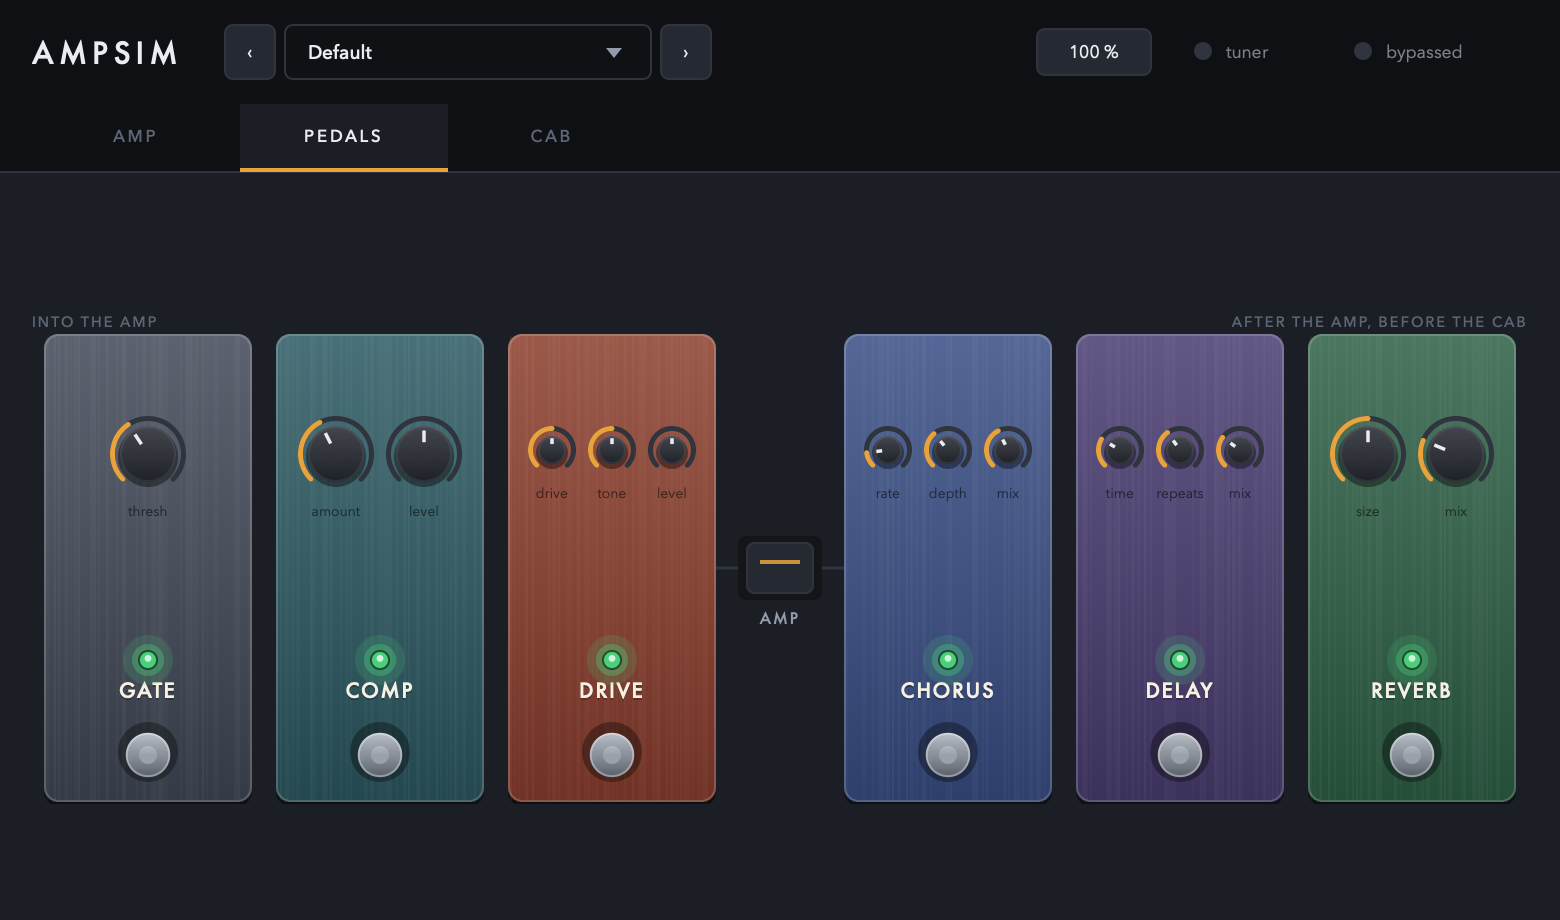
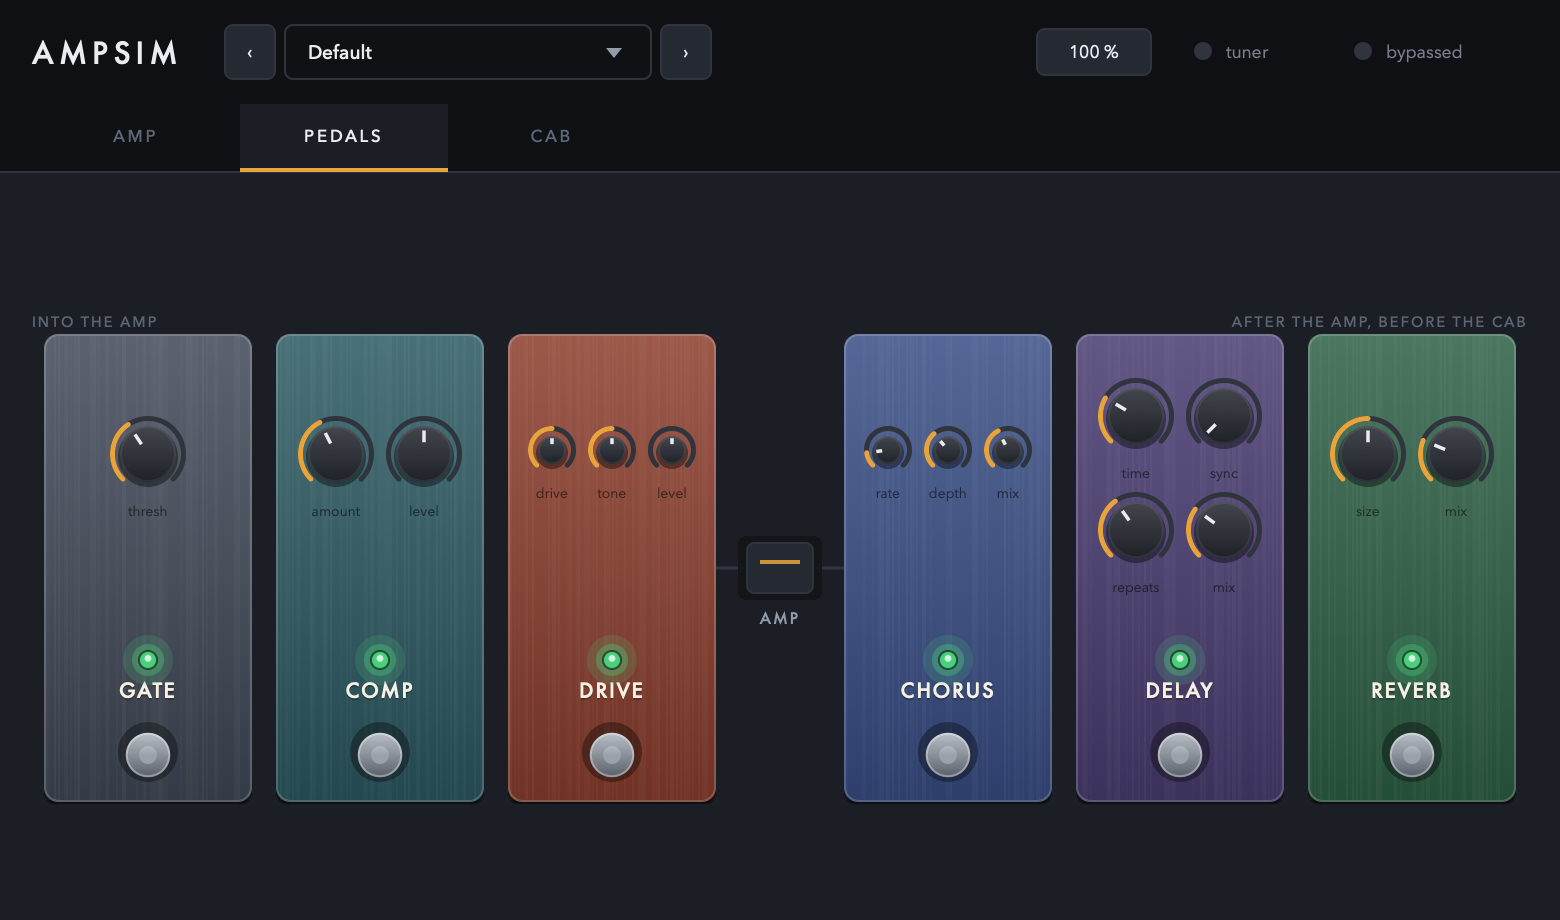
Sync the delay to the host's tempo
A fourth knob on the delay: Free, or a note length from 1/2 down to 1/16 with
the dotted and triplet ones between. Free is the first choice, so a session
saved before this existed lands on it and the delay behaves exactly as it did.

The tempo is read in the processor, not in the pedal. currentDelaySeconds()
takes the host's BPM through getPlayHead() and cuts it to the chosen length;
DelayPedal still just takes a time in seconds and knows nothing about tempo.
A host that reports none — a standalone — gets 120 BPM, because a delay that
went silent off the back of a missing number would be worse than one that
guessed.

Two things had to be pulled apart to make room. The delay line now holds two
seconds rather than 1.2, because a synced half note runs to two seconds at
60 BPM; the time knob's own range stays at 1.2, because a stored parameter is a
proportion of its range and widening it would move every saved session's delay
time. And PedalObject lays four knobs out as two rows of two rather than three
and a lonely one, which is the first pedal here to need a second row.

Both tests drive the whole processor with a fixed-tempo playhead and measure
where the repeat actually lands: a quarter at 120 BPM within a millisecond of
half a second, an eighth within a millisecond of a quarter of one, and Free
following the knob instead. The synced one fails when the conversion is taken
out.

104 tests pass in Debug and Release; auval passes.

Changed region(s): [[0.7077, 0.3957, 0.8308, 0.6087]]

diff --git a/docs/guide/index.html b/docs/guide/index.html
@@ -196,6 +196,7 @@
         <tbody>
           <tr><td>Any knob</td><td>Drag up/down or left/right</td><td>Turns it. A pedal knob shows its value in a bubble while you drag; an amp or cab knob has its value printed under it</td></tr>
           <tr><td>Any knob</td><td>Double-click</td><td>Back to its default</td></tr>
+          <tr><td>Delay's sync knob</td><td>Turn fully down</td><td>Free — the time knob decides instead of the tempo</td></tr>
           <tr><td>Any knob</td><td>Read the ring</td><td>How far it has moved from where it does nothing — the middle for a tone band, the bottom for an amount, the top for the cab's high cut</td></tr>
           <tr><td>Any knob</td><td>Right-click</td><td>Learn a MIDI controller for it, or forget the one it has</td></tr>
           <tr><td>Brass nameplate</td><td>Click</td><td>Opens a file chooser for a <code>.nam</code> capture</td></tr>
@@ -368,7 +369,8 @@
         { x: 24.4, y: 50.7, title: "Compressor", body: "<p>A single <b>amount</b> knob runs the threshold down and the ratio up together, so it goes from a gentle levelling to a squashed, sustaining sound without three controls to balance.</p><ul><li><b>amount</b>: 0 to 1, 0.4 by default.</li><li><b>level</b>: ±12 dB of make-up, for matching the level with the pedal off.</li></ul>" },
         { x: 39.2, y: 50.7, title: "Drive", body: "<p>An overdrive in front of the amp, 4x oversampled so it does not alias.</p><ul><li><b>drive</b>: how hard it clips. What it drives is the band above about 700 Hz; the low end reaches the clipper at the level it arrived, so a palm-muted low string stays defined instead of flattening along with everything else. That split is most of why a pedal like this goes in front of an amp rather than after it.</li><li><b>tone</b>: brightness going into the amp.</li><li><b>level</b>: ±12 dB — this is the one that pushes the amp.</li></ul><div class=\"tip\">The classic use is <b>drive low, level high</b>: not much distortion of its own, but a hotter and slightly brighter signal into the amp, which makes the amp itself work harder.</div>" },
         { x: 60.8, y: 50.7, title: "Chorus", body: "<p>After the amp, before the cab.</p><ul><li><b>rate</b>: 0.1 to 8 Hz.</li><li><b>depth</b> and <b>mix</b>.</li></ul><p>It keeps running while it is switched off, so engaging it picks up where it already was rather than starting from silence.</p>" },
-        { x: 75.6, y: 50.7, title: "Delay", body: "<p><ul><li><b>time</b>: 20 ms to 1.2 s, shown in milliseconds.</li><li><b>repeats</b>: up to 0.95 — high, but short of self-oscillation.</li><li><b>mix</b>.</li></ul></p><p>Like the chorus, it keeps running while off, so switching it on does not start the line empty.</p>" },
+        { x: 75.6, y: 50.7, title: "Delay", body: "<p><ul><li><b>time</b>: 20 ms to 1.2 s, shown in milliseconds. Ignored while <b>sync</b> is set to a note length.</li>
+        <li><b>sync</b>: <b>Free</b>, or a note length from 1/2 down to 1/16, including dotted and triplet. The repeats then follow your host's tempo and move with it. A standalone has no tempo to follow, so it assumes 120 BPM.</li><li><b>repeats</b>: up to 0.95 — high, but short of self-oscillation.</li><li><b>mix</b>.</li></ul></p><p>Like the chorus, it keeps running while off, so switching it on does not start the line empty.</p>" },
         { x: 90.5, y: 50.7, title: "Reverb", body: "<p><b>size</b> and <b>mix</b>. Last in the chain before the cabinet, so the tail comes out through the speaker rather than around it.</p><p><b>mix</b> adds reverb to your signal rather than trading one for the other: your dry sound stays where it is at every setting, and at the top of the control the reverb reaches the same level as it.</p>" }
       ] },
     { id: "cab", label: "Cab", image: "cab.png",

diff --git a/tests/PedalTests.cpp b/tests/PedalTests.cpp
@@ -584,3 +584,116 @@ TEST_CASE ("The drive pedal boosts into the clipper above a corner, not across t
     INFO ("at zero drive: 80 Hz " << lowAtZero << " dB, 1.5 kHz " << midAtZero << " dB");
     REQUIRE (std::abs (midAtZero - lowAtZero) < 1.0f);
 }
+
+namespace
+{
+    /** A host that reports one tempo and nothing else, which is all the delay asks for. */
+    struct FixedTempo final : juce::AudioPlayHead
+    {
+        explicit FixedTempo (double beatsPerMinute) : bpm (beatsPerMinute) {}
+
+        juce::Optional<PositionInfo> getPosition() const override
+        {
+            PositionInfo info;
+            info.setBpm (bpm);
+            return info;
+        }
+
+        double bpm;
+    };
+
+    /** Where the delay's single repeat lands, in samples, measured through the whole processor. */
+    int measureDelaySamples (AmpSimAudioProcessor& processor, int searchBlocks = 60)
+    {
+        juce::AudioBuffer<float> buffer (processor.getTotalNumOutputChannels(), test::blockSize);
+        juce::MidiBuffer midi;
+
+        // The delay's time is smoothed over a quarter of a second on purpose, so a sweep bends
+        // pitch rather than jumping. Let it arrive before asking where the repeat is.
+        for (int b = 0; b < test::blocksForRamp (0.3); ++b)
+        {
+            buffer.clear();
+            processor.processBlock (buffer, midi);
+        }
+
+        buffer.clear();
+        buffer.setSample (0, 0, 1.0f);
+        processor.processBlock (buffer, midi);
+
+        int position = -1;
+        float loudest = 0.0f;
+
+        for (int b = 0; b < searchBlocks; ++b)
+        {
+            if (b > 0)
+            {
+                buffer.clear();
+                processor.processBlock (buffer, midi);
+            }
+
+            for (int i = 0; i < test::blockSize; ++i)
+            {
+                // Past the dry impulse itself, which the mix at 1 should have removed anyway.
+                if (b == 0 && i < 64)
+                    continue;
+
+                if (const auto level = std::abs (buffer.getSample (0, i)); level > loudest)
+                {
+                    loudest = level;
+                    position = b * test::blockSize + i;
+                }
+            }
+        }
+
+        return position;
+    }
+}
+
+TEST_CASE ("The delay follows the host's tempo when it is synced", "[pedals]")
+{
+    FixedTempo tempo { 120.0 };
+
+    const auto repeatAt = [&tempo] (int division)
+    {
+        auto processor = test::makePreparedProcessor();
+        processor->setPlayHead (&tempo);
+
+        auto& state = processor->getValueTreeState();
+        test::setParam (state, ParamID::delayOn, 1.0f);
+        test::setParam (state, ParamID::delayMix, 1.0f);
+        test::setParam (state, ParamID::delayFeedback, 0.0f);
+
+        // A choice parameter is set by its index, the way the host sees it.
+        state.getParameter (ParamID::delayDivision)
+             ->setValueNotifyingHost ((float) division / 8.0f);
+
+        return measureDelaySamples (*processor);
+    };
+
+    // At 120 BPM a quarter note is half a second, and an eighth is half of that. Within a
+    // millisecond: the search is sample-accurate, the smoother is not quite.
+    const auto quarter = repeatAt (3);
+    const auto eighth = repeatAt (6);
+
+    INFO ("quarter " << quarter << " samples, eighth " << eighth);
+
+    REQUIRE (std::abs (quarter - 24000) < 48);
+    REQUIRE (std::abs (eighth - 12000) < 48);
+}
+
+TEST_CASE ("The delay ignores the tempo while it is set to Free", "[pedals]")
+{
+    FixedTempo tempo { 120.0 };
+
+    auto processor = test::makePreparedProcessor();
+    processor->setPlayHead (&tempo);
+
+    auto& state = processor->getValueTreeState();
+    test::setParam (state, ParamID::delayOn, 1.0f);
+    test::setParam (state, ParamID::delayMix, 1.0f);
+    test::setParam (state, ParamID::delayFeedback, 0.0f);
+    test::setParam (state, ParamID::delayTime, 0.2f);
+
+    // Division 0 is Free, which is where a session saved before any of this existed lands.
+    REQUIRE (std::abs (measureDelaySamples (*processor) - 9600) < 48);
+}

diff --git a/src/PluginProcessor.cpp b/src/PluginProcessor.cpp
@@ -187,13 +187,19 @@ juce::AudioProcessorValueTreeState::ParameterLayout AmpSimAudioProcessor::create
     // "0.0 s" — a number that is wrong rather than merely coarse.
     layout.add (std::make_unique<juce::AudioParameterFloat> (
         juce::ParameterID { ParamID::delayTime, 1 }, "Delay Time",
-        juce::NormalisableRange<float> { 0.02f, DelayPedal::maxDelaySeconds }, 0.35f,
+        juce::NormalisableRange<float> { 0.02f, DelayPedal::maxKnobSeconds }, 0.35f,
         juce::AudioParameterFloatAttributes()
             .withLabel ("ms")
             .withStringFromValueFunction ([] (float seconds, int)
             {
                 return juce::String (juce::roundToInt (seconds * 1000.0f)) + " ms";
             })));
+    // "Free" first, so a session saved before this existed lands on it and the delay behaves
+    // exactly as it did. The lengths run long to short, the way a delay's time knob does.
+    layout.add (std::make_unique<juce::AudioParameterChoice> (
+        juce::ParameterID { ParamID::delayDivision, 1 }, "Delay Sync",
+        juce::StringArray { "Free", "1/2", "1/4.", "1/4", "1/4T", "1/8.", "1/8", "1/8T", "1/16" }, 0));
+
     addKnob (ParamID::delayFeedback, "Delay Feedback", 0.0f, 0.95f, 0.35f);
     addKnob (ParamID::delayMix, "Delay Mix", 0.0f, 1.0f, 0.3f);
 
@@ -356,7 +362,7 @@ PedalChain::Settings AmpSimAudioProcessor::currentPedalSettings() const
     s.chorusMix = value (ParamID::chorusMix);
 
     s.delayEngaged = flag (ParamID::delayOn);
-    s.delayTimeSeconds = value (ParamID::delayTime);
+    s.delayTimeSeconds = currentDelaySeconds();
     s.delayFeedback = value (ParamID::delayFeedback);
     s.delayMix = value (ParamID::delayMix);
 
@@ -365,6 +371,38 @@ PedalChain::Settings AmpSimAudioProcessor::currentPedalSettings() const
     s.reverbMix = value (ParamID::reverbMix);
 
     return s;
+}
+
+float AmpSimAudioProcessor::currentDelaySeconds() const
+{
+    const auto division = (int) apvts.getRawParameterValue (ParamID::delayDivision)->load();
+
+    if (division <= 0)
+        return apvts.getRawParameterValue (ParamID::delayTime)->load();
+
+    // Each note length as a multiple of a quarter, in the order the choices are listed.
+    static constexpr float ofAQuarter[] { 0.0f, 2.0f, 1.5f, 1.0f, 2.0f / 3.0f,
+                                          0.75f, 0.5f, 1.0f / 3.0f, 0.25f };
+
+    if (division >= (int) std::size (ofAQuarter))
+        return apvts.getRawParameterValue (ParamID::delayTime)->load();
+
+    // A host that reports no tempo — a standalone, or one stopped before it has played anything —
+    // still has to give a delay that sounds like something, so it gets the tempo most people
+    // would have guessed.
+    auto beatsPerMinute = 120.0;
+
+    if (auto* playHead = getPlayHead())
+        if (const auto position = playHead->getPosition())
+            if (const auto hostBpm = position->getBpm())
+                beatsPerMinute = *hostBpm;
+
+    const auto quarterSeconds = 60.0 / juce::jmax (20.0, beatsPerMinute);
+
+    // Long note lengths run past what the line can hold at slow tempos — a half note needs two
+    // seconds at 60 BPM — so the clamp is what the delay actually does rather than a surprise.
+    return juce::jlimit (0.02f, DelayPedal::maxDelaySeconds,
+                         (float) (quarterSeconds * ofAQuarter[division]));
 }
 
 void AmpSimAudioProcessor::timerCallback()

diff --git a/src/ui/PedalObject.cpp b/src/ui/PedalObject.cpp
@@ -215,19 +215,30 @@ void PedalObject::resized()
     if (knobs.isEmpty())
         return;
 
-    // Up to three across, as a compact pedal has them; a fourth would go on a second row. The row
-    // sits in the upper half of what is left, which is where a pedal's controls actually are —
-    // the space under them is the blank face the name is printed on.
-    const auto perRow = juce::jmin (knobs.size(), 3);
+    // Up to three across, as a compact pedal has them. A fourth goes on a second row, two and
+    // two, rather than three and a lonely one. The block sits in the upper part of what is left,
+    // which is where a pedal's controls actually are — the space under them is the blank face the
+    // name is printed on.
+    const auto rows = knobs.size() > 3 ? 2 : 1;
+    const auto perRow = (knobs.size() + rows - 1) / rows;
+
     const auto knobWidth = juce::jmin (bounds.getWidth() / perRow, maxKnobWidth);
-    const auto knobHeight = juce::jmin (bounds.getHeight(), knobWidth + knobLabelHeight);
+    const auto knobHeight = juce::jmin (bounds.getHeight() / rows, knobWidth + knobLabelHeight);
 
-    auto row = bounds.removeFromTop (knobHeight + (bounds.getHeight() - knobHeight) / 3)
-                     .removeFromBottom (knobHeight);
+    auto block = bounds.removeFromTop (rows * knobHeight
+                                           + (bounds.getHeight() - rows * knobHeight) / 3)
+                       .removeFromBottom (rows * knobHeight);
 
-    // A single knob is centred rather than pushed to the left-hand third.
-    row = row.withSizeKeepingCentre (knobWidth * perRow, knobHeight);
+    for (int row = 0; row < rows; ++row)
+    {
+        const auto first = row * perRow;
+        const auto count = juce::jmin (perRow, knobs.size() - first);
 
-    for (auto* knob : knobs)
-        knob->setBounds (row.removeFromLeft (knobWidth).reduced (2, 0));
+        // A row with fewer knobs than the others is centred rather than pushed to the left.
+        auto strip = block.removeFromTop (knobHeight)
+                          .withSizeKeepingCentre (knobWidth * count, knobHeight);
+
+        for (int i = 0; i < count; ++i)
+            knobs[first + i]->setBounds (strip.removeFromLeft (knobWidth).reduced (2, 0));
+    }
 }

diff --git a/src/PluginProcessor.h b/src/PluginProcessor.h
@@ -73,6 +73,9 @@ namespace ParamID
 
     inline constexpr const char* delayOn         = "delayOn";
     inline constexpr const char* delayTime       = "delayTime";
+    // "Free" plus a set of note lengths. A choice rather than a switch and a second control: one
+    // knob that reads Free at one end is the whole of what a tempo sync needs to say.
+    inline constexpr const char* delayDivision   = "delayDivision";
     inline constexpr const char* delayFeedback   = "delayFeedback";
     inline constexpr const char* delayMix        = "delayMix";
 
@@ -212,6 +215,11 @@ private:
 
     /** Reads the pedal parameters into one settings object, once per block. */
     PedalChain::Settings currentPedalSettings() const;
+
+    /** The delay's time in seconds: the knob, or the host's tempo cut into whatever note length
+        the division control is set to. */
+    float currentDelaySeconds() const;
+
     static juce::AudioProcessorValueTreeState::ParameterLayout createParameterLayout();
 
     juce::AudioProcessorValueTreeState apvts;

diff --git a/src/ui/PedalsPage.cpp b/src/ui/PedalsPage.cpp
@@ -38,8 +38,8 @@ PedalsPage::PedalsPage (juce::AudioProcessorValueTreeState& state)
               { { ParamID::chorusRate, "rate" }, { ParamID::chorusDepth, "depth" },
                 { ParamID::chorusMix, "mix" } }),
       delay (state, "delay", ParamID::delayOn, delayBody,
-             { { ParamID::delayTime, "time" }, { ParamID::delayFeedback, "repeats" },
-               { ParamID::delayMix, "mix" } }),
+             { { ParamID::delayTime, "time" }, { ParamID::delayDivision, "sync" },
+               { ParamID::delayFeedback, "repeats" }, { ParamID::delayMix, "mix" } }),
       reverb (state, "reverb", ParamID::reverbOn, reverbBody,
               { { ParamID::reverbSize, "size" }, { ParamID::reverbMix, "mix" } })
 {

diff --git a/src/dsp/pedals/DelayPedal.h b/src/dsp/pedals/DelayPedal.h
@@ -20,7 +20,14 @@
 class DelayPedal
 {
 public:
-    static constexpr float maxDelaySeconds = 1.2f;
+    /** What the line can hold. */
+    static constexpr float maxDelaySeconds = 2.0f;
+
+    /** What the time knob offers, which is deliberately less. It cannot be widened without moving
+        every saved session's setting, since a stored parameter is a proportion of its range — so
+        the line was made longer instead, for the one case that needs the room: a synced half note
+        runs to two seconds at 60 BPM. */
+    static constexpr float maxKnobSeconds = 1.2f;
 
     void prepare (double sampleRate, int maxBlockSize);
     void reset();

diff --git a/tests/EditorTests.cpp b/tests/EditorTests.cpp
@@ -59,7 +59,7 @@ TEST_CASE ("Every knob returns to its parameter's default on a double-click", "[
                       WithinAbs (parameter->getDefaultValue(), 1.0e-6));
     });
 
-    // Seven on the amp, fourteen across the six pedals, four on the cab. A page that stopped being
+    // Seven on the amp, fifteen across the six pedals, four on the cab. A page that stopped being
     // built would otherwise pass this test by having nothing to check.
-    REQUIRE (knobs == 25);
+    REQUIRE (knobs == 26);
 }

diff --git a/CLAUDE.md b/CLAUDE.md
@@ -219,6 +219,16 @@ Four things that were learned the hard way here:
   mix straight into `Parameters` gives +6 dB of dry at mix 0. `ReverbPedal` divides both out so the
   control means what it says, and a test measures the surviving dry gain by projecting the output
   onto a noise input.
+- **The delay's time comes from the processor, not from the pedal.** `currentDelaySeconds()` reads
+  the host's tempo through `getPlayHead()` and cuts it to whatever note length `delayDivision` is
+  set to; `DelayPedal` still just takes seconds and knows nothing about tempo. The division's first
+  choice is **Free**, so a session saved before this existed lands on the knob and behaves exactly
+  as it did. A host that reports no tempo — a standalone — gets 120 BPM.
+
+  `DelayPedal::maxDelaySeconds` (2 s, what the line holds) and `maxKnobSeconds` (1.2 s, what the
+  time control offers) are deliberately different. A synced half note runs to two seconds at
+  60 BPM, and the knob's range cannot be widened to suit it: a stored parameter is a proportion of
+  its range, so every saved session's delay time would move.
 - **Chorus, delay and reverb must keep running while bypassed.** Their delay lines have to stay
   fed — engaging one that has been sitting empty starts its delayed copy from silence, and that
   onset is a click however long the crossfade is. `BypassCrossfade::scratchFor()` gives them a

diff --git a/docs/signal-chain-review.md b/docs/signal-chain-review.md
@@ -259,8 +259,10 @@ sync, several reverb types, and often a wah, a pitch shifter and a doubler.
 Against the list, this plugin is missing: **phaser, flanger, tremolo, wah, an EQ pedal, a boost
 distinct from the drive, pitch effects, and tempo sync on the delay.**
 
+- **Tempo sync is done.** A `delayDivision` choice on the delay, with **Free** first so nothing
+  saved earlier moves. It needed no new DSP, only the host's tempo, and it is a control on an
+  existing pedal rather than a seventh pedal — so it cost none of what the rest of this item costs.
 - **For adding some.** Tremolo and phaser are small, well-understood, and idiomatic for guitar.
-  Tempo sync is the single most-requested delay feature and needs no new DSP, only the host's BPM.
 - **Against adding any.** `CLAUDE.md` states the scope is one amp, one cabinet, six pedals, and
   that proposals beyond the four parts in the plan should be named as scope creep. Every added
   pedal is a permanent maintenance and UI cost, and the pedals page is laid out for exactly six —

diff --git a/README.md b/README.md
@@ -132,7 +132,7 @@ broke and nothing changed". Update it deliberately, in its own commit, and re-va
 ## Testing
 
 ```sh
-ctest --test-dir build                        # 102 tests
+ctest --test-dir build                        # 104 tests
 ctest --test-dir build --output-on-failure
 ctest --test-dir build -R "bypass"            # one test, or a pattern
 ```
